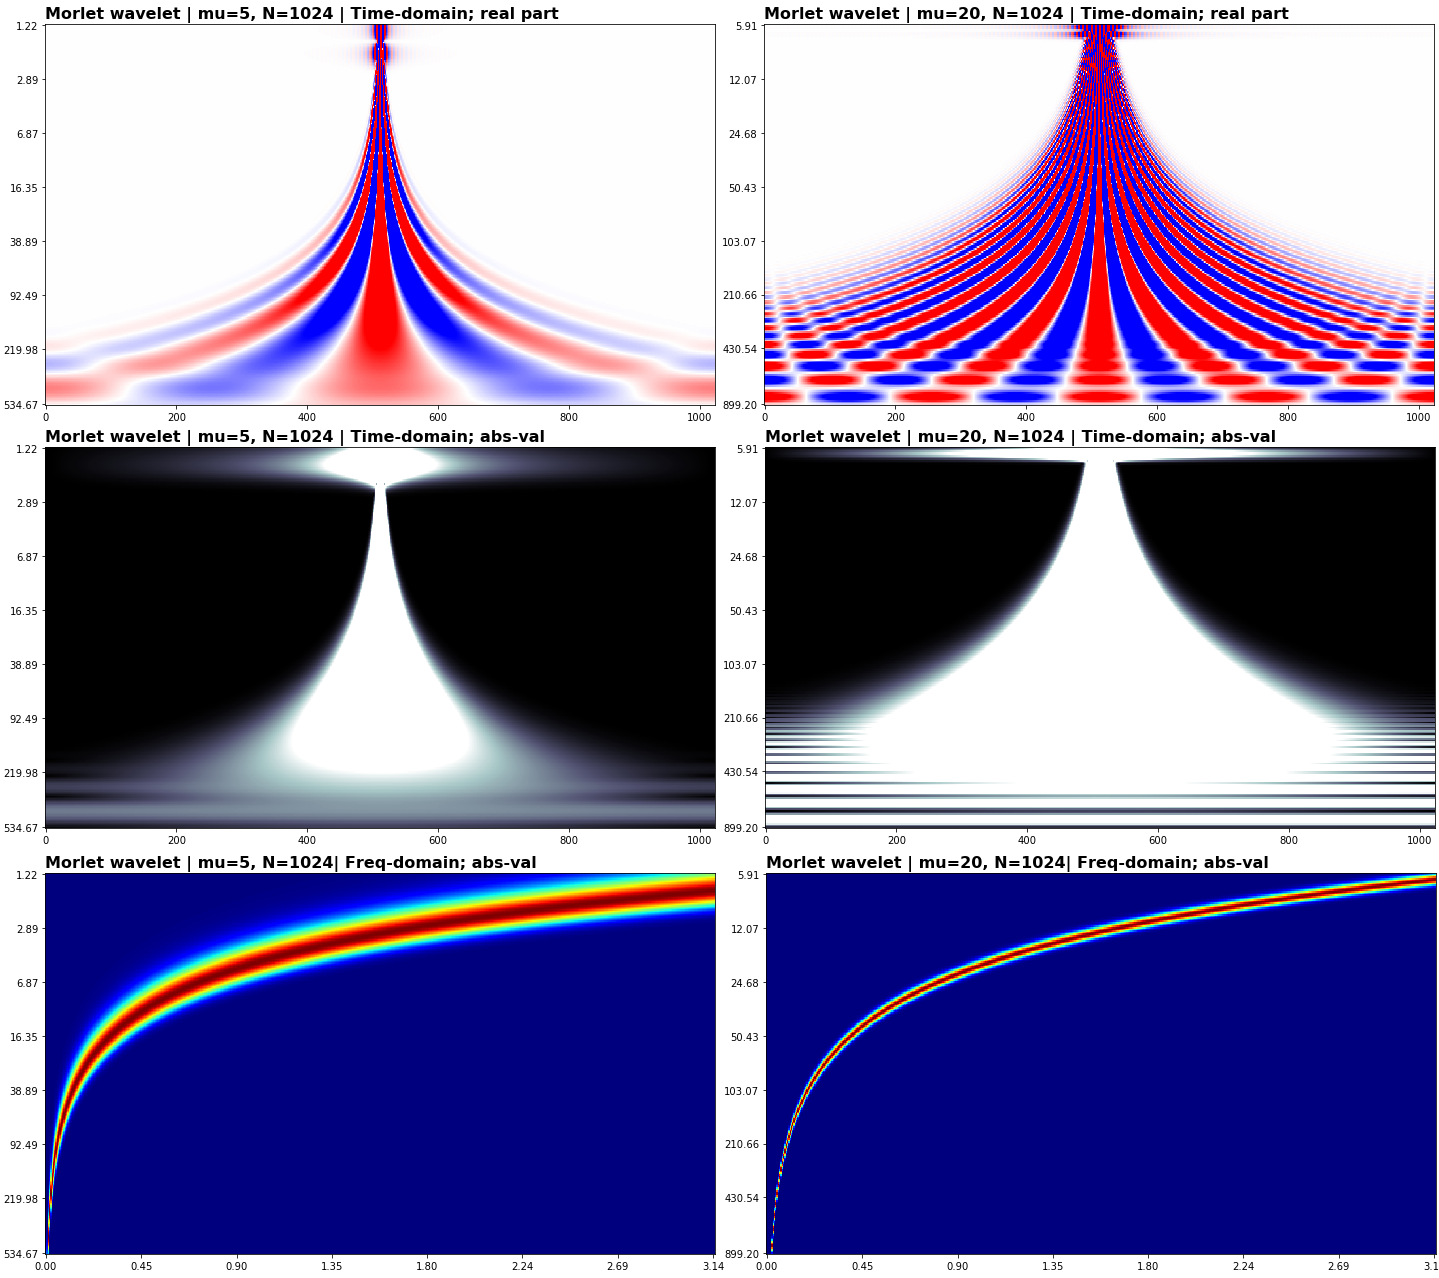
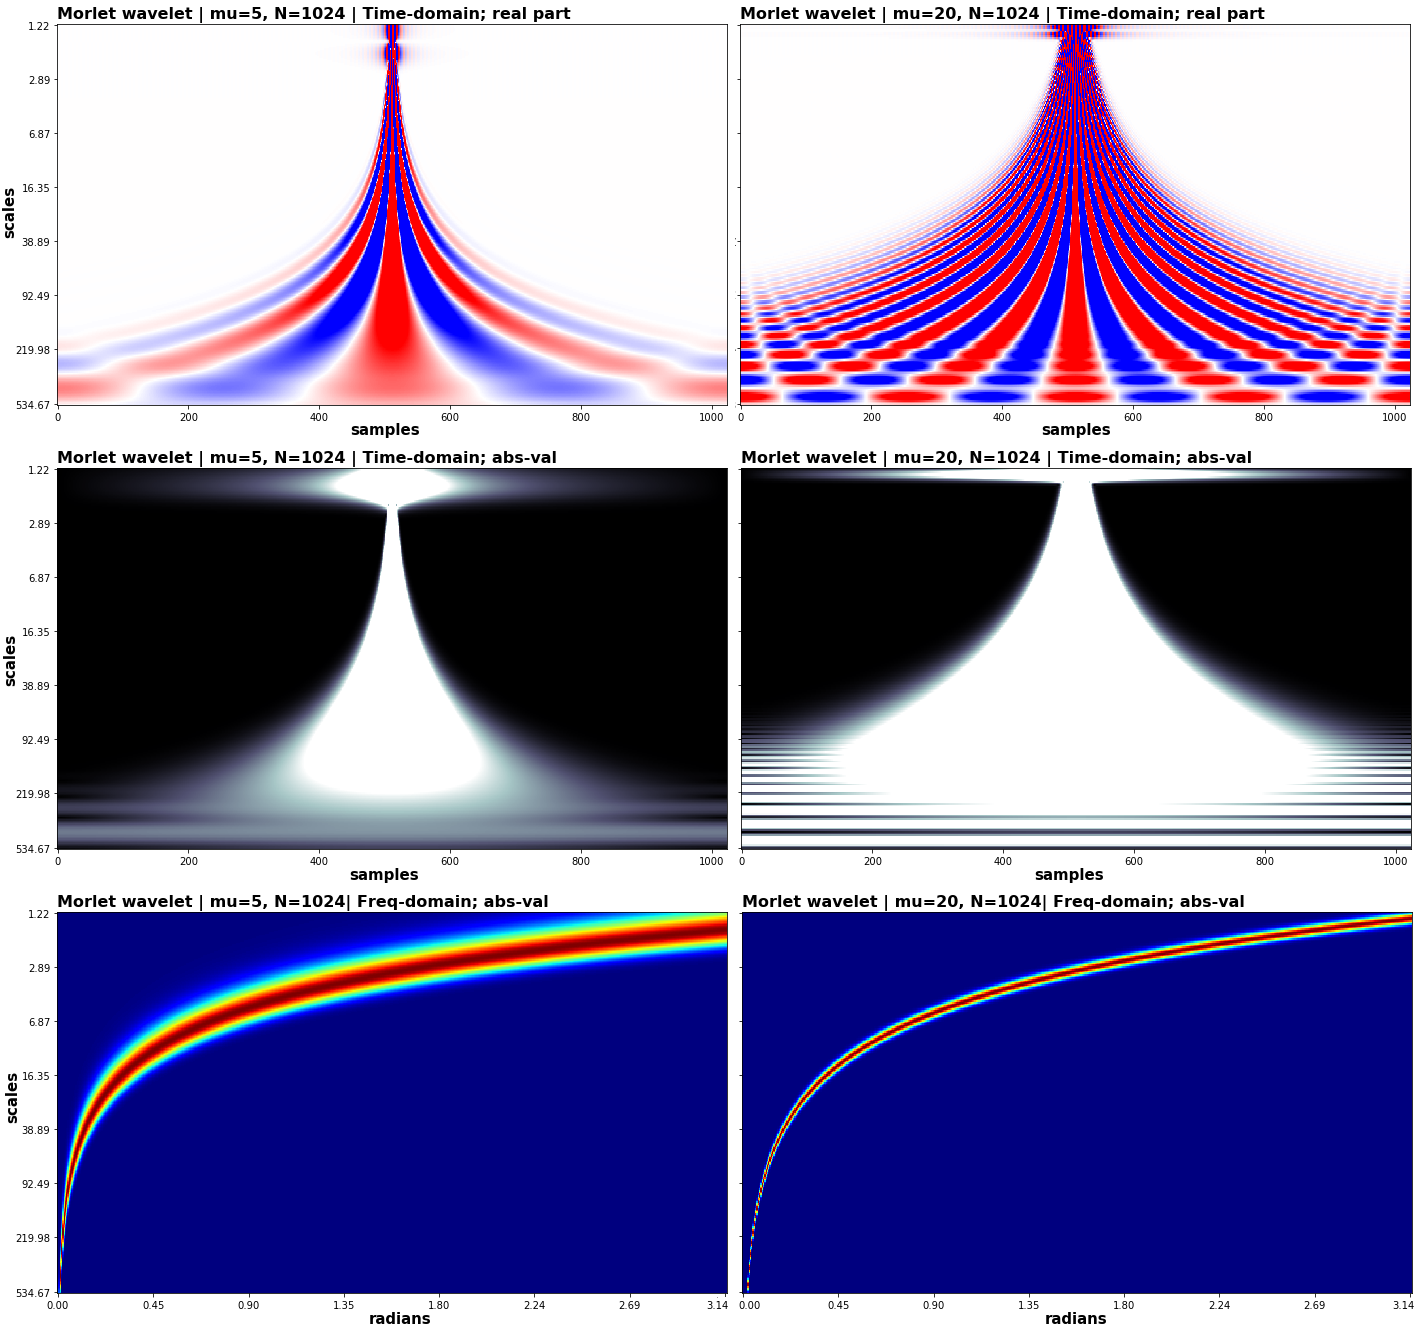
[skip travis]

diff --git a/ssqueezepy/viz_toolkit.py b/ssqueezepy/viz_toolkit.py
@@ -349,13 +349,15 @@ def wavelet_heatmap(wavelet, scales='log', N=2048):
     mx = np.abs(Psi).max() * .01
     title0 = wavelet._desc(N=N)
 
+    kw = dict(ylabel="scales", xlabel="samples")
     imshow(Psi.real,   norm=(-mx, mx), yticks=scales,
-           title=title0 + " | Time-domain; real part")
+           title=title0 + " | Time-domain; real part", **kw)
     imshow(Psi, abs=1, norm=(0, mx), yticks=scales,
-           title=title0 + " | Time-domain; abs-val")
+           title=title0 + " | Time-domain; abs-val", **kw)
+    kw['xlabel'] = "radians"
     imshow(Psih, abs=1, cmap='jet', yticks=scales,
            xticks=np.linspace(0, np.pi, N//2),
-           title=title0 + "| Freq-domain; abs-val")
+           title=title0 + "| Freq-domain; abs-val", **kw)
 
 
 def sweep_std_t(wavelet, N, scales='log', get=False, **kw):
@@ -508,8 +510,8 @@ def wavelet_waveforms(wavelet, N, scale, zoom=True):
 
 #### Visual tools ## messy code ##############################################
 def imshow(data, title=None, show=1, cmap=None, norm=None, complex=None, abs=0,
-           w=None, h=None, ridge=0, ticks=1, yticks=None, xticks=None,
-           aspect='auto', **kw):
+           w=None, h=None, ridge=0, ticks=1, aspect='auto',
+           yticks=None, xticks=None, xlabel=None, ylabel=None, **kw):
     kw['interpolation'] = kw.get('interpolation', 'none')
     if norm is None:
         mx = np.max(np.abs(data))
@@ -550,6 +552,10 @@ def imshow(data, title=None, show=1, cmap=None, norm=None, complex=None, abs=0,
         idxs = np.linspace(0, len(xticks) - 1, 8).astype('int32')
         xt = ["%.2f" % h for h in xticks[idxs]]
         plt.xticks(idxs, xt)
+    if xlabel is not None:
+        plt.xlabel(xlabel, weight='bold', fontsize=15)
+    if ylabel is not None:
+        plt.ylabel(ylabel, weight='bold', fontsize=15)
 
     _maybe_title(title)
     if show:
